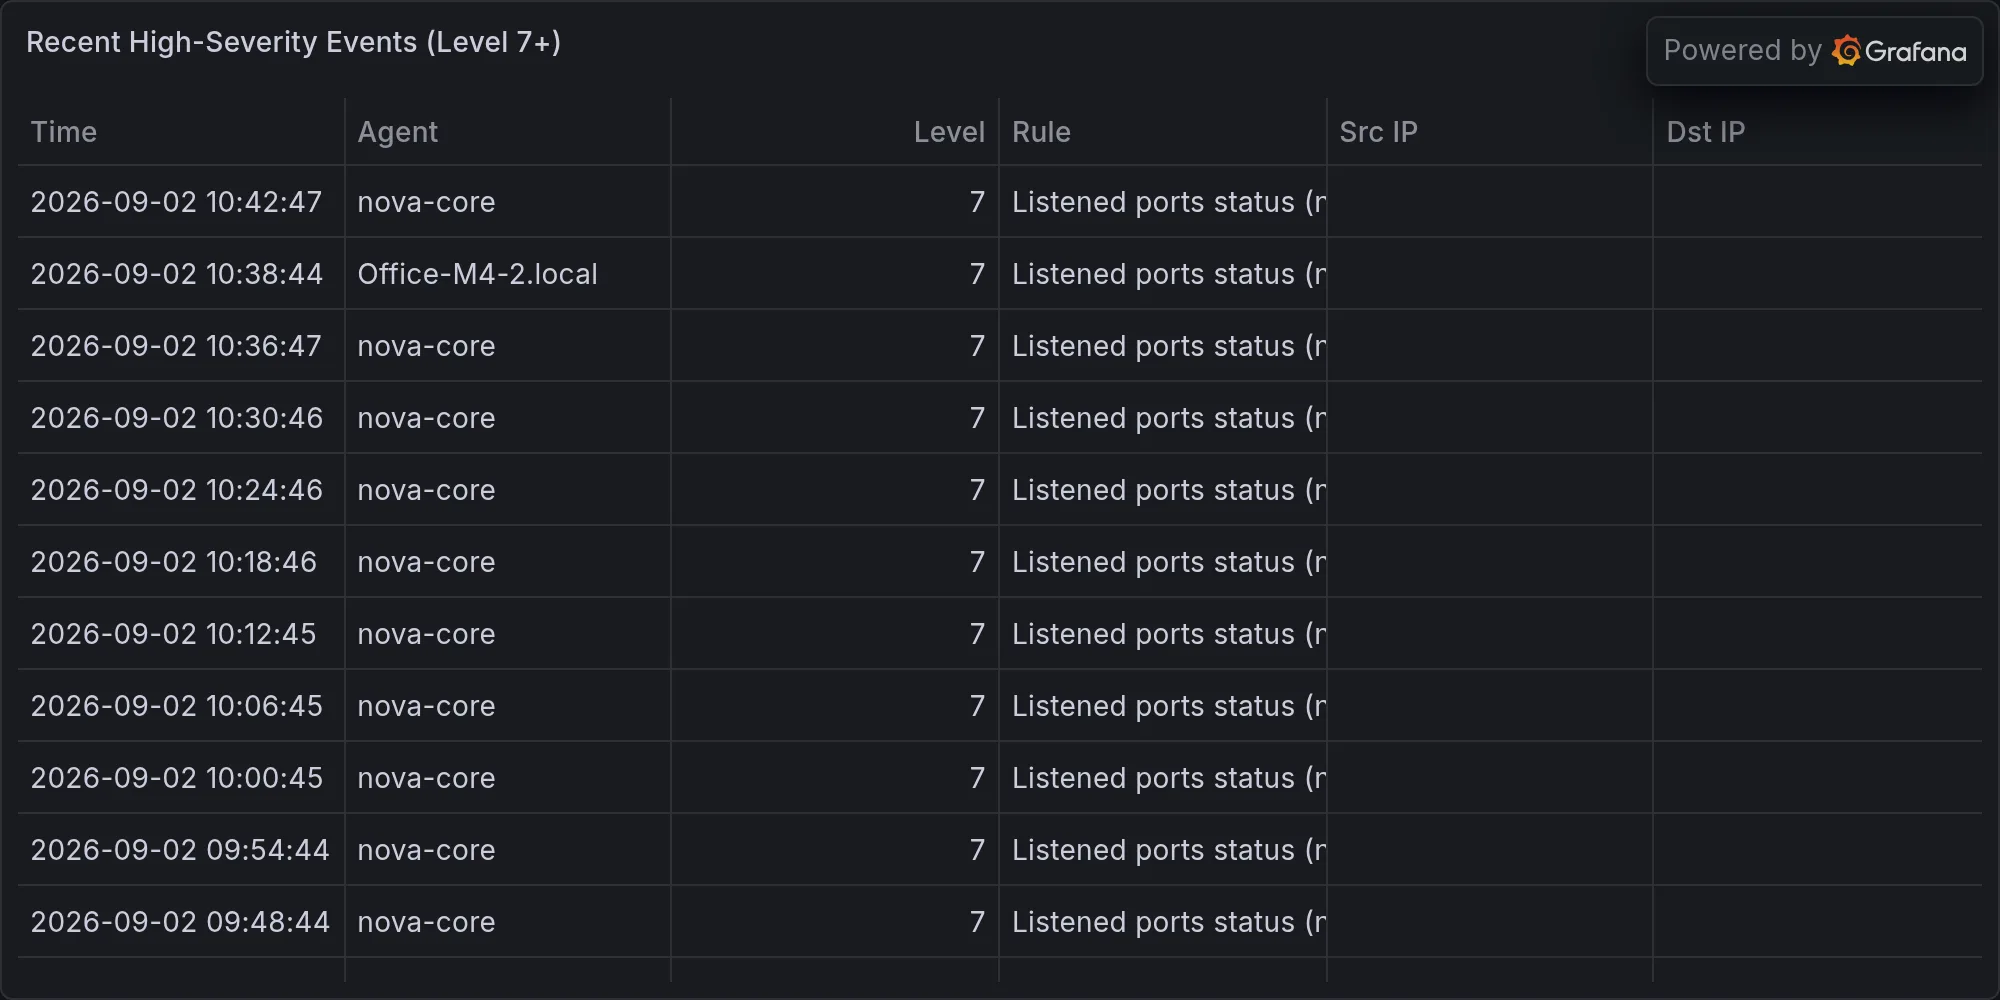
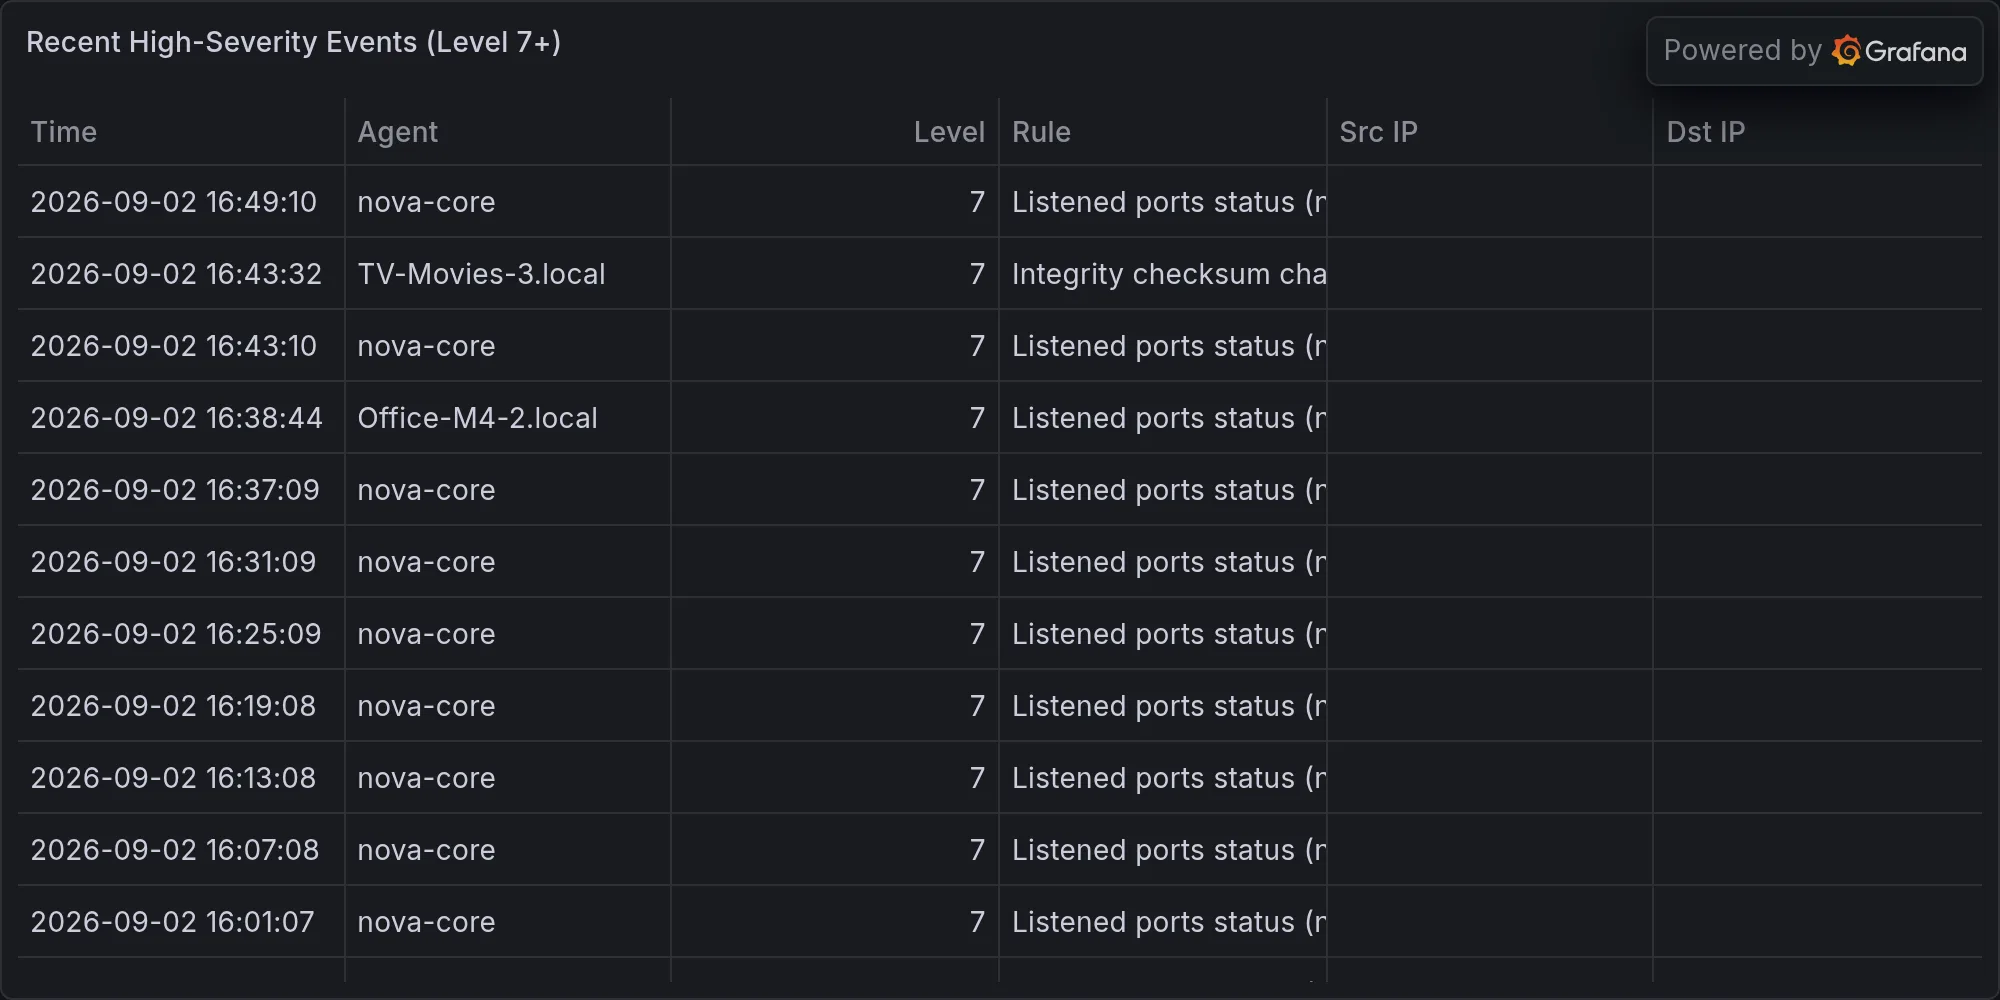
security: 2026-09-02 — **SonicWall SMA1000 Authentication Bypass & RCE —

diff --git a/content/operations/2026-09-02-sonicwall-sma1000-authentication-bypass-rce-active-exploitat.md b/content/operations/2026-09-02-sonicwall-sma1000-authentication-bypass-rce-active-exploitat.md
@@ -1,0 +1,64 @@
+---
+title: "🛡 **SonicWall SMA1000 Authentication Bypass & RCE — Active Exploitation Ongoing**"
+date: 2026-09-02T16:50:46-07:00
+draft: false
+categories: ["operations"]
+tags: ["breaking-alert", "cso-online-sonicwall-reports-two-major-s", "security"]
+description: "BREAKING: CSO Online: SonicWall reports two major security holes under active exploit"
+cover:
+  image: "/images/operations/2026-09-02-sonicwall-sma1000-authentication-bypass-rce-active-exploitat.webp"
+  alt: "**SonicWall SMA1000 Authentication Bypass & RCE — Active Exploitation Ongoing**"
+  relative: false
+---
+
+*Published Wednesday, September 02, 2026 at 04:50 PM PT*
+
+![**SonicWall SMA1000 Authentication Bypass & RCE — Active Exploitation Ongoing**](/images/operations/2026-09-02-sonicwall-sma1000-authentication-bypass-rce-active-exploitat.webp)
+
+BLUF: SonicWall disclosed September 1 two zero-day vulnerabilities (CVE-2026-83549, CVE-2026-83548) in SMA1000 Secure Mobile Access appliances; both actively exploited in the wild. One permits remote authentication bypass; the second enables arbitrary code execution. Vendors have released patches. Organizations running SMA1000 must apply updates immediately.
+
+---
+
+**DETAILS**
+
+- **Vulnerability 1 (CVE-2026-83549):** Remote attack vector that bypasses authentication on SMA1000 appliances. Attackers can access protected resources without credentials.
+
+- **Vulnerability 2 (CVE-2026-83548):** Allows remote code execution on affected appliances. Combined with CVE-2026-83549, enables full appliance compromise.
+
+- **Active exploitation confirmed:** Both vulnerabilities are being weaponized in live attacks targeting SonicWall customers as of disclosure (September 1, 2026). Ransomware operators, including the INC gang, have begun targeting vulnerable installations.
+
+- **Patches available:** SonicWall has published fixes for both vulnerabilities. Scope limited to SMA1000 series (SMA 1000 appliances); older/discontinued GMS platform also patched separately.
+
+- **Severity assessment:** Industry consultants rate both holes as "highly troubling" due to authentication bypass enabling downstream compromise.
+
+---
+
+**IMPACT**
+
+- **Affected products:** SonicWall SMA1000 Secure Mobile Access appliances in all current deployments until patched.
+- **Attack surface:** Remote, unauthenticated. No interaction required.
+- **Scope:** Unknown total number of vulnerable instances, but ransomware groups already active suggests widespread targeting.
+- **Downstream risk:** SMA1000 appliances protect remote access to internal networks. Compromise enables lateral movement, data exfiltration, and ransomware staging.
+
+---
+
+**RECOMMENDED ACTIONS**
+
+1. **Immediate (today):** Inventory all SonicWall SMA1000 appliances in your environment and note current firmware versions.
+2. **Within 24 hours:** Apply SonicWall patches to all SMA1000 units. Prioritize internet-facing instances.
+3. **Concurrent monitoring:** Enable audit logging and review access logs for suspicious authentication patterns or lateral movement indicators.
+4. **Backup verification:** Confirm recent backups of systems accessible via SMA1000; ransomware operators are actively targeting this vector.
+
+---
+
+**SOURCES**
+
+- SonicWall security advisory (September 1, 2026)
+- SecurityWeek, CyberScoop, Rapid7, News4Hackers (CVE-2026-83549, CVE-2026-83548 analysis)
+- Active exploitation reports from threat intelligence (INC Ransomware gang activity documented)
+
+---
+
+**Recent high-severity events at publish time:**
+
+![Recent high-severity events](/images/operations/2026-09-02-breaking-alert-posture.webp)
